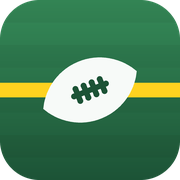
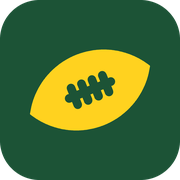
Make the mark a yellow ball on the turf green
The ball on a thin yellow line was hard to read at header and tab size. The ball itself now carries the root-for yellow. Every icon is drawn from the same numbers as the SVG at eight times its size, and phones get a full-bleed maskable icon instead of the rounded one with see-through corners.

diff --git a/tools/icons.py b/tools/icons.py
@@ -1,10 +1,11 @@
-"""Draw the site mark: a football on a field-green tile, lying on the yellow
-first-down line the site uses for the side to root for.
+"""Draw the site mark: a yellow football on a field-green tile. The yellow is
+the first-down line the site uses for the side to root for.
 
 Run ``python tools/icons.py`` to rewrite logo.svg and every icon the pages
 ask for. Needs Pillow, which the site itself does not. The SVG and the PNGs
-come from the same numbers, so they match. A favicon is drawn without the
-stripes or the laces, which at that size only muddy it.
+come from the same numbers, so they match. Each PNG is drawn at eight times
+its size and shrunk, so edges stay clean. Below 32 pixels the laces are left
+off, since at that size they only muddy the ball.
 """
 import math
 import sys
@@ -15,26 +16,27 @@ from PIL import Image, ImageDraw
 OUT = Path(__file__).resolve().parents[1] / "src" / "cfbroot" / "web" / "static"
 
 # Geometry, in a 64 unit square.
-R = 14.0            # corner radius
-BALL_A = 17.9       # half length
-BALL_B = 10.9       # half height
+R = 14.0            # corner radius of the tile
+BALL_A = 23.0       # half length
+BALL_B = 13.44      # half height
 TILT = -22.0        # degrees
-SEAM = 6.1          # half length of the seam line
-TICK = 2.3          # half height of a lace tick
-TICK_GAP = 3.1
-STROKE = 2.05
+SEAM = 8.0          # half length of the seam line
+TICK = 3.2          # half height of a lace tick
+TICK_GAP = 4.0
+STROKE = 3.0
+# A maskable icon is cropped to a circle by the phone, so the ball shrinks to
+# stay inside the middle 80% and the tile runs to the edges.
+MASKABLE_SCALE = 0.86
 
-TOP = (0x35, 0x8a, 0x58)
-BOTTOM = (0x1c, 0x53, 0x36)
-STRIPE = (0x00, 0x00, 0x00, 11)
-WHITE = (0xf7, 0xfa, 0xf8)
-LINE = (0xff, 0xd2, 0x1f)
-LINE_W = 5.2        # the first-down line's thickness
-LINE_W_SMALL = 8.0  # thicker in a favicon, or it vanishes
-LACE = (0x1c, 0x53, 0x36)
+TURF = (0x1c, 0x53, 0x36)
+YELLOW = (0xff, 0xd2, 0x1f)
 
 
-def lens(a, b, steps=140):
+def hexof(c):
+    return "#%02x%02x%02x" % c
+
+
+def lens(a, b, steps=240):
     """An American football outline: two circular arcs meeting at the points."""
     r = (a * a + b * b) / (2 * b)
     cy = r - b
@@ -54,102 +56,44 @@ def turn(pts, deg):
     return [(x * c - y * s, x * s + y * c) for x, y in pts]
 
 
-def draw(size, rounded=True):
-    """The tile at ``size`` pixels, drawn big and shrunk down.
+def laces():
+    """The seam and its four ticks, as line segments before the tilt."""
+    out = [((-SEAM, 0.0), (SEAM, 0.0))]
+    for i in (-1.5, -0.5, 0.5, 1.5):
+        x = i * TICK_GAP
+        out.append(((x, -TICK), (x, TICK)))
+    return out
 
-    A favicon is mostly ball: at that size the margin is wasted and the
-    stripes and laces only muddy it.
-    """
-    small = size <= 48
-    a, b = (BALL_A * 1.15, BALL_B * 1.15) if small else (BALL_A, BALL_B)
+
+def draw(size, rounded=True, maskable=False):
+    """The mark at ``size`` pixels, drawn big and shrunk down."""
     k = 8                                           # supersampling
     px = size * k
     unit = px / 64.0
+    scale = MASKABLE_SCALE if maskable else 1.0
     img = Image.new("RGBA", (px, px), (0, 0, 0, 0))
-
-    field = Image.new("RGBA", (px, px))
-    d = ImageDraw.Draw(field)
-    for y in range(px):                             # top to bottom gradient
-        f = y / (px - 1)
-        d.line([(0, y), (px, y)],
-               fill=tuple(round(TOP[i] + (BOTTOM[i] - TOP[i]) * f) for i in range(3))
-               + (255,))
-    if size > 32:
-        stripes = Image.new("RGBA", (px, px), (0, 0, 0, 0))
-        ds = ImageDraw.Draw(stripes)
-        band = px / 8.0                             # the mown stripes, faintly
-        for i in range(0, 8, 2):
-            ds.rectangle([0, round(i * band), px, round((i + 1) * band)],
-                         fill=STRIPE)
-        field = Image.alpha_composite(field, stripes)
-    d = ImageDraw.Draw(field)
-    half = (LINE_W_SMALL if small else LINE_W) * unit / 2
-    d.rectangle([0, round(px / 2 - half), px, round(px / 2 + half)], fill=LINE + (255,))
-
-    mask = Image.new("L", (px, px), 0)
-    md = ImageDraw.Draw(mask)
-    if rounded:
-        md.rounded_rectangle([0, 0, px - 1, px - 1], radius=R * unit, fill=255)
-    else:
-        md.rectangle([0, 0, px - 1, px - 1], fill=255)
-    img.paste(field, (0, 0), mask)
-
     d = ImageDraw.Draw(img)
+    if rounded and not maskable:
+        d.rounded_rectangle([0, 0, px - 1, px - 1], radius=R * unit, fill=TURF + (255,))
+    else:
+        d.rectangle([0, 0, px - 1, px - 1], fill=TURF + (255,))
+
     mid = px / 2.0
 
     def place(pts):
-        return [(mid + x * unit, mid + y * unit) for x, y in pts]
+        return [(mid + x * unit * scale, mid + y * unit * scale)
+                for x, y in turn(pts, TILT)]
 
-    d.polygon(place(turn(lens(a, b), TILT)), fill=WHITE + (255,))
-
-    def capsule(x1, y1, x2, y2, width):
-        (ax, ay), (bx, by) = place(turn([(x1, y1), (x2, y2)], TILT))
-        w = width * unit
-        d.line([(ax, ay), (bx, by)], fill=LACE + (255,), width=round(w))
-        for cx, cy in ((ax, ay), (bx, by)):
-            d.ellipse([cx - w / 2, cy - w / 2, cx + w / 2, cy + w / 2],
-                      fill=LACE + (255,))
-
-    if size > 40:
-        capsule(-SEAM, 0, SEAM, 0, STROKE)
-        for i in (-1.5, -0.5, 0.5, 1.5):
-            x = i * TICK_GAP
-            capsule(x, -TICK, x, TICK, STROKE)
-
-    return img.resize((size, size), Image.LANCZOS)
-
-
-SVG = f"""<svg xmlns="http://www.w3.org/2000/svg" viewBox="0 0 64 64" role="img"
-     aria-label="CFB Rooting Guide">
-  <defs>
-    <linearGradient id="turf" x1="0" y1="0" x2="0" y2="1">
-      <stop offset="0" stop-color="#{TOP[0]:02x}{TOP[1]:02x}{TOP[2]:02x}"/>
-      <stop offset="1" stop-color="#{BOTTOM[0]:02x}{BOTTOM[1]:02x}{BOTTOM[2]:02x}"/>
-    </linearGradient>
-    <clipPath id="tile"><rect width="64" height="64" rx="{R:g}"/></clipPath>
-  </defs>
-  <g clip-path="url(#tile)">
-    <rect width="64" height="64" fill="url(#turf)"/>
-    <g fill="#000" opacity="{STRIPE[3] / 255:.3f}">
-      <rect y="0" width="64" height="8"/><rect y="16" width="64" height="8"/>
-      <rect y="32" width="64" height="8"/><rect y="48" width="64" height="8"/>
-    </g>
-    <rect y="{32 - LINE_W / 2:g}" width="64" height="{LINE_W:g}"
-          fill="#{LINE[0]:02x}{LINE[1]:02x}{LINE[2]:02x}"/>
-  </g>
-  <g transform="translate(32 32) rotate({TILT:g})">
-    <path d="{{ball}}" fill="#{WHITE[0]:02x}{WHITE[1]:02x}{WHITE[2]:02x}"/>
-    <g stroke="#{LACE[0]:02x}{LACE[1]:02x}{LACE[2]:02x}" stroke-width="{STROKE:g}"
-       stroke-linecap="round">
-      <line x1="{-SEAM:g}" y1="0" x2="{SEAM:g}" y2="0"/>
-      <line x1="{-1.5 * TICK_GAP:g}" y1="{-TICK:g}" x2="{-1.5 * TICK_GAP:g}" y2="{TICK:g}"/>
-      <line x1="{-0.5 * TICK_GAP:g}" y1="{-TICK:g}" x2="{-0.5 * TICK_GAP:g}" y2="{TICK:g}"/>
-      <line x1="{0.5 * TICK_GAP:g}" y1="{-TICK:g}" x2="{0.5 * TICK_GAP:g}" y2="{TICK:g}"/>
-      <line x1="{1.5 * TICK_GAP:g}" y1="{-TICK:g}" x2="{1.5 * TICK_GAP:g}" y2="{TICK:g}"/>
-    </g>
-  </g>
-</svg>
-"""
+    d.polygon(place(lens(BALL_A, BALL_B)), fill=YELLOW + (255,))
+    if size >= 32:
+        w = STROKE * unit * scale
+        for a, b in laces():
+            (ax, ay), (bx, by) = place([a, b])
+            d.line([(ax, ay), (bx, by)], fill=TURF + (255,), width=round(w))
+            for cx, cy in ((ax, ay), (bx, by)):     # round caps
+                d.ellipse([cx - w / 2, cy - w / 2, cx + w / 2, cy + w / 2],
+                          fill=TURF + (255,))
+    return img.resize((size, size), Image.Resampling.LANCZOS)
 
 
 def ball_path():
@@ -158,15 +102,33 @@ def ball_path():
             f"A {r:.3f} {r:.3f} 0 0 1 {-BALL_A:g} 0 Z")
 
 
+def svg():
+    lines = "\n".join(
+        f'      <line x1="{a[0]:g}" y1="{a[1]:g}" x2="{b[0]:g}" y2="{b[1]:g}"/>'
+        for a, b in laces())
+    return f"""<svg xmlns="http://www.w3.org/2000/svg" viewBox="0 0 64 64" role="img"
+     aria-label="CFB Rooting Guide">
+  <rect width="64" height="64" rx="{R:g}" fill="{hexof(TURF)}"/>
+  <g transform="translate(32 32) rotate({TILT:g})">
+    <path d="{ball_path()}" fill="{hexof(YELLOW)}"/>
+    <g stroke="{hexof(TURF)}" stroke-width="{STROKE:g}" stroke-linecap="round">
+{lines}
+    </g>
+  </g>
+</svg>
+"""
+
+
 def main():
     where = Path(sys.argv[1]) if len(sys.argv) > 1 else OUT
     where.mkdir(parents=True, exist_ok=True)
-    (where / "logo.svg").write_text(SVG.replace("{ball}", ball_path()),
-                                    encoding="utf-8")
+    (where / "logo.svg").write_text(svg(), encoding="utf-8")
     for size in (32, 48, 96, 180, 192, 512):
-        draw(size).save(where / f"icon-{size}.png")
+        draw(size).save(where / f"icon-{size}.png", optimize=True)
+    draw(512, maskable=True).save(where / "icon-maskable-512.png", optimize=True)
     # iOS puts its own mask on, so that one is square and opaque.
-    draw(180, rounded=False).convert("RGB").save(where / "apple-touch-icon.png")
+    draw(180, rounded=False).convert("RGB").save(where / "apple-touch-icon.png",
+                                                 optimize=True)
     small = [draw(s) for s in (16, 32)]
     draw(48).save(where / "favicon.ico", sizes=[(16, 16), (32, 32), (48, 48)],
                   append_images=small)
